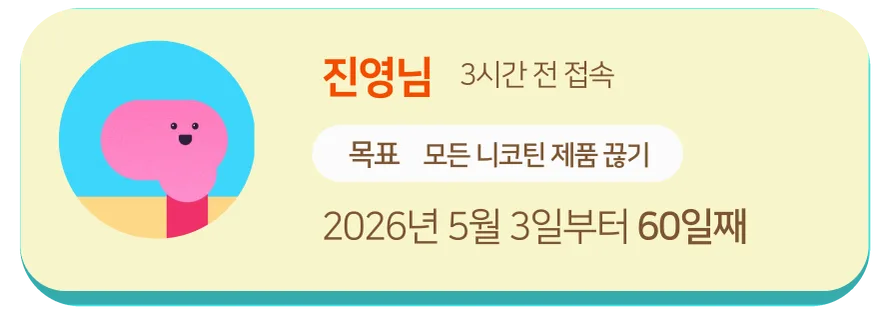
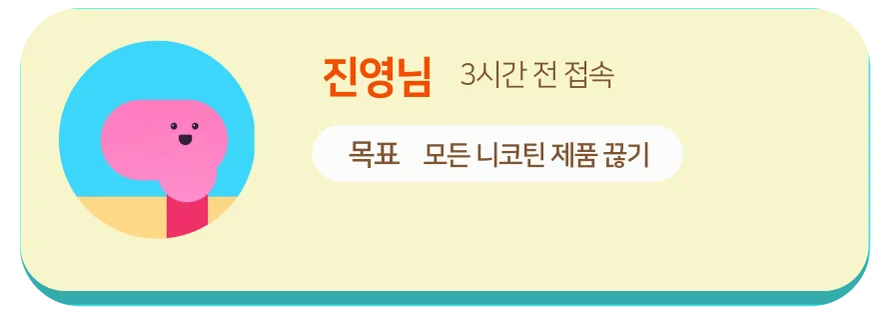
Add files via upload

Changed region(s): [[0.364, 0.6571, 0.8494, 0.8]]

diff --git a/sw.js b/sw.js
@@ -1,4 +1,4 @@
-const C='nota-22c720bb23';const A=["A10/b_red.webp", "A10/c_awake.webp", "A10/c_sleep.webp", "A10/dive1_ui.webp", "A10/out_bg.webp", "A10/out_c1.webp", "A10/out_c2.webp", "A10/t_dive.webp", "A11/hfull_sad.webp", "A11/hfull_smile.webp", "A11/scr/n_com1.webp", "A11/scr/n_com2.webp", "A11/scr/n_rec1.webp", "A11/scr/n_rec3.webp", "A11/scr/n_rec4.webp", "A11/t_fresh.webp", "A12/roll.webp", "A12/tumbler.webp", "A9/an_fresh_ui.webp", "A9/an_miss1_ui.webp", "A9/an_miss2_ui.webp", "A9/an_morning_ui.webp", "A9/an_out1_ui.webp", "A9/an_out2_ui.webp", "A9/an_week2_ui.webp", "A9/an_week3_ui.webp", "A9/balloon1_ui.webp", "A9/balloon2_ui.webp", "A9/bed1.webp", "A9/cal7.webp", "A9/cf0.webp", "A9/cf1.webp", "A9/cf2.webp", "A9/cf3.webp", "A9/cf4.webp", "A9/cf5.webp", "A9/cf6.webp", "A9/cf7.webp", "A9/clinic.webp", "A9/goggle.webp", "A9/heart_sad.webp", "A9/heart_smile.webp", "A9/m_char.webp", "A9/n_blanket.webp", "A9/n_char.webp", "A9/n_char_awake.webp", "A9/pillow.webp", "A9/record.webp", "A9/record_orig.webp", "A9/room.webp", "A9/sun.webp", "A9/t_balloon1.webp", "A9/t_balloon2.webp", "A9/t_miss1.webp", "A9/t_miss2.webp", "A9/t_morning.webp", "A9/t_week.webp", "A9/x.webp", "G/g1_b_blue.webp", "G/g1_b_green.webp", "G/g1_b_pink.webp", "G/g1_b_red.webp", "G/g1_char.webp", "G/g1_hand.webp", "G/g2_book.webp", "G/g2_box.webp", "G/g2_box2.webp", "G/g2_hat.webp", "G/g2_note.webp", "G/g2_pencil.webp", "G/g2_roll1.webp", "G/g2_roll2.webp", "G/g2_tumbler.webp", "G/g3_bubble.webp", "G/g3_char1.webp", "G/g3_char2.webp", "G/g3_popup.webp", "G/g3_rock1.webp", "G/g3_rock2.webp", "L/an_week3_art.webp", "L/balloon1_ui.webp", "L/balloon2_ui.webp", "L/balloon3_bg.webp", "L/dive1_art.webp", "L/dive1_bg.webp", "L/home2_art.webp", "L/home2_bg.webp", "L/home2_ui.webp", "L/home3_art.webp", "L/home3_bg.webp", "L/home3_ui.webp", "L/tidy1_art.webp", "L/tidy1_bg.webp", "L/tidy1_ui.webp", "L/tidy2_art.webp", "L/tidy2_bg.webp", "L/tidy2_ui.webp", "L/tidy3_bg.webp", "L/tidy3_ui.webp", "N/b_blue.webp", "N/b_green.webp", "N/b_pink.webp", "N/b_red.webp", "N/b_redhand.webp", "N/hand.webp", "X/av_baeyujin.webp", "X/av_dog.webp", "X/av_doyun.webp", "X/av_haneul.webp", "X/av_jian.webp", "X/av_jinyoung.webp", "X/av_jungwoo.webp", "X/av_junsu.webp", "X/av_kimbyeongjun.webp", "X/av_minjae.webp", "X/av_rec0.webp", "X/av_seonu.webp", "X/av_seonyoung.webp", "X/av_wooparupa.webp", "X/bg.webp", "X/cal_sheet.webp", "X/card_balloon.webp", "X/card_dive.webp", "X/card_shake.webp", "X/card_tidy.webp", "X/ci_L.webp", "X/ci_hb.webp", "X/ci_hh.webp", "X/ci_lb.webp", "X/ci_lh.webp", "X/com_hd.webp", "X/goal1.webp", "X/goal2.webp", "X/goal3.webp", "X/home.webp", "X/home_clean.webp", "X/mate_bg.webp", "X/mate_hd_clean.webp", "X/mt_c0.webp", "X/mt_c1.webp", "X/mt_c2.webp", "X/mt_rest.webp", "X/my1.webp", "X/my1_clean.webp", "X/my2.webp", "X/my3.webp", "X/my_hd.webp", "X/my_nav.webp", "X/my_scroll.webp", "X/pill84.webp", "X/rec1_clean.webp", "X/rec1_clean2.webp", "X/rec3_clean.webp", "X/rec4_clean.webp", "X/ric0.webp", "X/ric1.webp", "X/ric2.webp", "X/ric3.webp", "X/ric4.webp", "X/shake0.webp", "X/shakeA_base.webp", "X/shakeA_bub.webp", "X/shakeB_base.webp", "X/shakeB_bub.webp", "X/shake_face.webp", "X/splash.webp", "X/splash_bg.webp", "X/splash_ch.webp", "chars/c3.webp", "scr/home1.webp", "scr/logo.webp", "scr/n_mate1.webp", "scr/n_mate2.webp"];
+const C='nota-4b968ba264';const A=["A10/b_red.webp", "A10/c_awake.webp", "A10/c_sleep.webp", "A10/dive1_ui.webp", "A10/out_bg.webp", "A10/out_c1.webp", "A10/out_c2.webp", "A10/t_dive.webp", "A11/hfull_sad.webp", "A11/hfull_smile.webp", "A11/scr/n_com1.webp", "A11/scr/n_com2.webp", "A11/scr/n_rec1.webp", "A11/scr/n_rec3.webp", "A11/scr/n_rec4.webp", "A11/t_fresh.webp", "A12/roll.webp", "A12/tumbler.webp", "A9/an_fresh_ui.webp", "A9/an_miss1_ui.webp", "A9/an_miss2_ui.webp", "A9/an_morning_ui.webp", "A9/an_out1_ui.webp", "A9/an_out2_ui.webp", "A9/an_week2_ui.webp", "A9/an_week3_ui.webp", "A9/balloon1_ui.webp", "A9/balloon2_ui.webp", "A9/bed1.webp", "A9/cal7.webp", "A9/cf0.webp", "A9/cf1.webp", "A9/cf2.webp", "A9/cf3.webp", "A9/cf4.webp", "A9/cf5.webp", "A9/cf6.webp", "A9/cf7.webp", "A9/clinic.webp", "A9/goggle.webp", "A9/heart_sad.webp", "A9/heart_smile.webp", "A9/m_char.webp", "A9/n_blanket.webp", "A9/n_char.webp", "A9/n_char_awake.webp", "A9/pillow.webp", "A9/record.webp", "A9/record_orig.webp", "A9/room.webp", "A9/sun.webp", "A9/t_balloon1.webp", "A9/t_balloon2.webp", "A9/t_miss1.webp", "A9/t_miss2.webp", "A9/t_morning.webp", "A9/t_week.webp", "A9/x.webp", "G/g1_b_blue.webp", "G/g1_b_green.webp", "G/g1_b_pink.webp", "G/g1_b_red.webp", "G/g1_char.webp", "G/g1_hand.webp", "G/g2_book.webp", "G/g2_box.webp", "G/g2_box2.webp", "G/g2_hat.webp", "G/g2_note.webp", "G/g2_pencil.webp", "G/g2_roll1.webp", "G/g2_roll2.webp", "G/g2_tumbler.webp", "G/g3_bubble.webp", "G/g3_char1.webp", "G/g3_char2.webp", "G/g3_popup.webp", "G/g3_rock1.webp", "G/g3_rock2.webp", "L/an_week3_art.webp", "L/balloon1_ui.webp", "L/balloon2_ui.webp", "L/balloon3_bg.webp", "L/dive1_art.webp", "L/dive1_bg.webp", "L/home2_art.webp", "L/home2_bg.webp", "L/home2_ui.webp", "L/home3_art.webp", "L/home3_bg.webp", "L/home3_ui.webp", "L/tidy1_art.webp", "L/tidy1_bg.webp", "L/tidy1_ui.webp", "L/tidy2_art.webp", "L/tidy2_bg.webp", "L/tidy2_ui.webp", "L/tidy3_bg.webp", "L/tidy3_ui.webp", "N/b_blue.webp", "N/b_green.webp", "N/b_pink.webp", "N/b_red.webp", "N/b_redhand.webp", "N/hand.webp", "X/av_baeyujin.webp", "X/av_dog.webp", "X/av_doyun.webp", "X/av_haneul.webp", "X/av_jian.webp", "X/av_jinyoung.webp", "X/av_jungwoo.webp", "X/av_junsu.webp", "X/av_kimbyeongjun.webp", "X/av_minjae.webp", "X/av_rec0.webp", "X/av_seonu.webp", "X/av_seonyoung.webp", "X/av_wooparupa.webp", "X/bg.webp", "X/cal_sheet.webp", "X/card_balloon.webp", "X/card_dive.webp", "X/card_shake.webp", "X/card_tidy.webp", "X/ci_L.webp", "X/ci_hb.webp", "X/ci_hh.webp", "X/ci_lb.webp", "X/ci_lh.webp", "X/com_hd.webp", "X/goal1.webp", "X/goal2.webp", "X/goal3.webp", "X/home.webp", "X/home_clean.webp", "X/mate_bg.webp", "X/mate_hd_clean.webp", "X/mt_c0.webp", "X/mt_c1.webp", "X/mt_c2.webp", "X/mt_rest.webp", "X/my1.webp", "X/my1_clean.webp", "X/my2.webp", "X/my3.webp", "X/my_hd.webp", "X/my_nav.webp", "X/my_scroll.webp", "X/pill84.webp", "X/rec1_clean.webp", "X/rec1_clean2.webp", "X/rec3_clean.webp", "X/rec4_clean.webp", "X/ric0.webp", "X/ric1.webp", "X/ric2.webp", "X/ric3.webp", "X/ric4.webp", "X/shake0.webp", "X/shakeA_base.webp", "X/shakeA_bub.webp", "X/shakeB_base.webp", "X/shakeB_bub.webp", "X/shake_face.webp", "X/splash.webp", "X/splash_bg.webp", "X/splash_ch.webp", "chars/c3.webp", "scr/home1.webp", "scr/logo.webp", "scr/n_mate1.webp", "scr/n_mate2.webp"];
 self.addEventListener('install',e=>{e.waitUntil(caches.open(C).then(c=>c.addAll([new Request('./',{cache:'reload'}),new Request('index.html',{cache:'reload'}),'manifest.webmanifest','fonts/NS-L.woff','fonts/NS-R.woff','fonts/NS-B.woff','fonts/NS-EB.woff',...A])).then(()=>self.skipWaiting()))});
 self.addEventListener('activate',e=>e.waitUntil(caches.keys().then(ks=>Promise.all(ks.filter(k=>k!==C).map(k=>caches.delete(k)))).then(()=>self.clients.claim())));
 self.addEventListener('fetch',e=>{e.respondWith(caches.match(e.request,{ignoreSearch:true}).then(r=>r||fetch(e.request)))});

diff --git a/index.html b/index.html
@@ -756,12 +756,12 @@ let holding=false,soundOn=true,alarmRun=null,game=null;
 
 // ---------- layout ----------
 function layout(){
-  const vw=innerWidth,vh=innerHeight,AR=852/393;const k=vh/(vw*AR);let w,h;if(k>=.94&&k<=1.06&&vw<700){w=vw;h=vh}else{w=Math.min(vw,vh/AR);h=w*AR}
+  const _st=document.getElementById('stage'),vw=(_st&&_st.clientWidth)||innerWidth,vh=(_st&&_st.clientHeight)||innerHeight,AR=852/393;const k=vh/(vw*AR);let w,h;if(k>=.94&&k<=1.06&&vw<700){w=vw;h=vh}else{w=Math.min(vw,vh/AR);h=w*AR}
   scr.style.width=w+'px';scr.style.height=h+'px';
   document.documentElement.style.setProperty('--nf',(w/890).toFixed(5));document.documentElement.style.setProperty('--nfy',(h/1939).toFixed(5));
   scr.classList.toggle('frame',vw>w*1.18||vh>h*1.08);
 }
-addEventListener('resize',layout);layout();
+addEventListener('resize',layout);addEventListener('orientationchange',()=>setTimeout(layout,300));if(window.visualViewport)visualViewport.addEventListener('resize',layout);layout();[120,500,1200,2500].forEach(t=>setTimeout(layout,t));
 function toNat(e){const r=scr.getBoundingClientRect();return [(e.clientX-r.left)/r.width*890,(e.clientY-r.top)/r.height*1939]}
 
 // ---------- tiny sounds ----------
@@ -923,7 +923,7 @@ const restTopF=()=>1185+308*(MATES.length-3);
 const clipBox=div(MA,{left:'0px',top:'236px',width:'890px',height:'1499px',overflow:'hidden',pointerEvents:'auto',touchAction:'none'});
 const mIn=div(clipBox,{left:'0px',top:'0px',width:'890px',height:'1499px',willChange:'transform'});
 const cards=[];
-function mkOrigCard(i){const e=div(mIn,{left:'0px',top:(TOPS(i)-8-236)+'px',width:'890px',height:'315px',willChange:'transform',cursor:'pointer'});img('X/mt_c'+i+'.png',null,e);return e}
+function mkOrigCard(i){const e=div(mIn,{left:'0px',top:(TOPS(i)-8-236)+'px',width:'890px',height:'315px',willChange:'transform',cursor:'pointer'});img('X/mt_c'+i+'.png',null,e);txt(e,322,205,START_STR+'부터 <b style="font-weight:800">60일째</b>',{size:42,w:400,color:'#7A4A2A',html:true});return e}
 function dateStr(days){const d=new Date();d.setDate(d.getDate()-days);return d.getFullYear()+'년 '+(d.getMonth()+1)+'월 '+d.getDate()+'일'}
 function mkDynCard(i,m){const e=div(mIn,{left:'0px',top:(TOPS(i)-8-236)+'px',width:'890px',height:'315px',willChange:'transform',cursor:'pointer'});
   div(e,{left:'20px',top:'8px',width:'848px',height:'283px',borderRadius:'46px',background:'#F8F5CB',boxShadow:'0 14px 0 #2FA3AF'});
